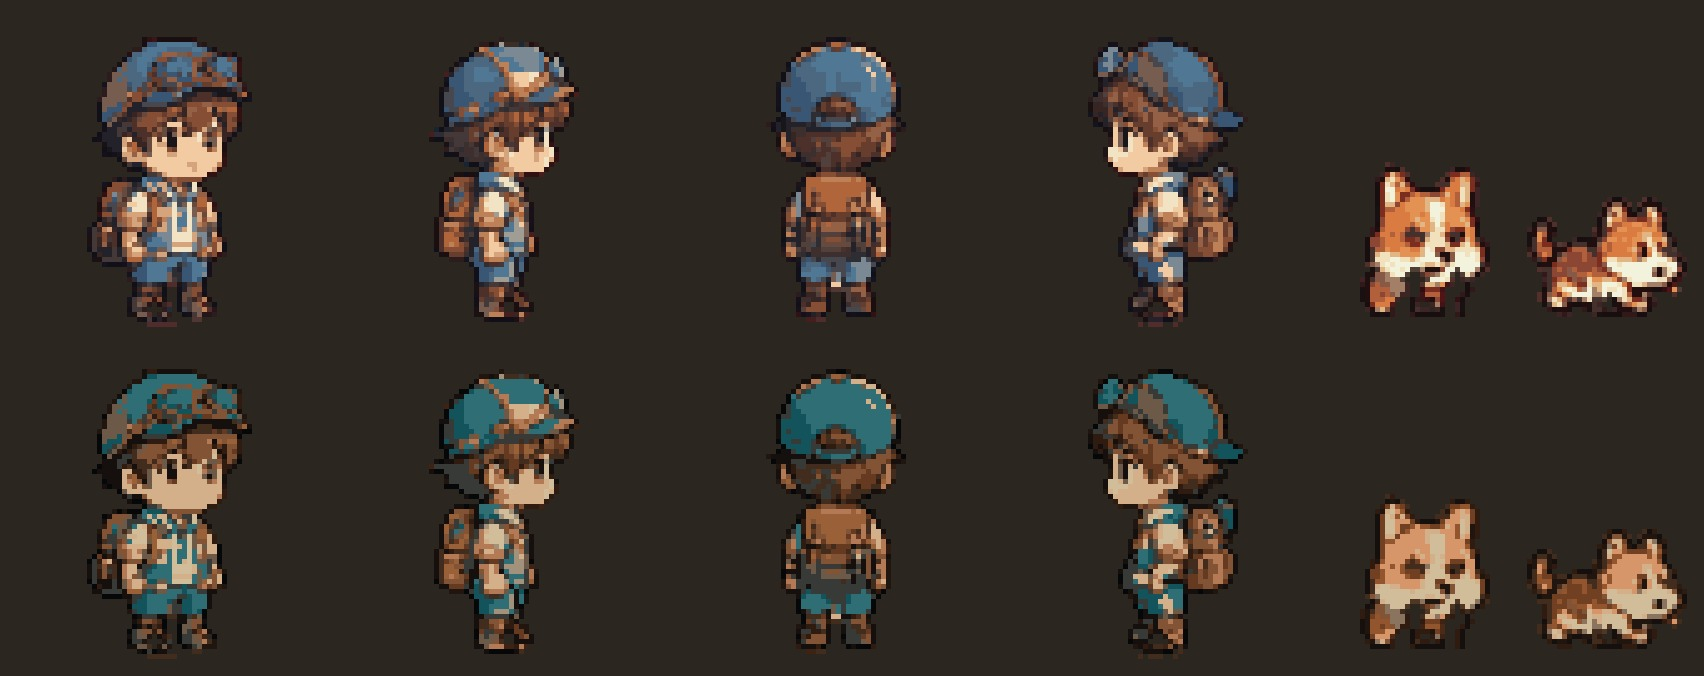
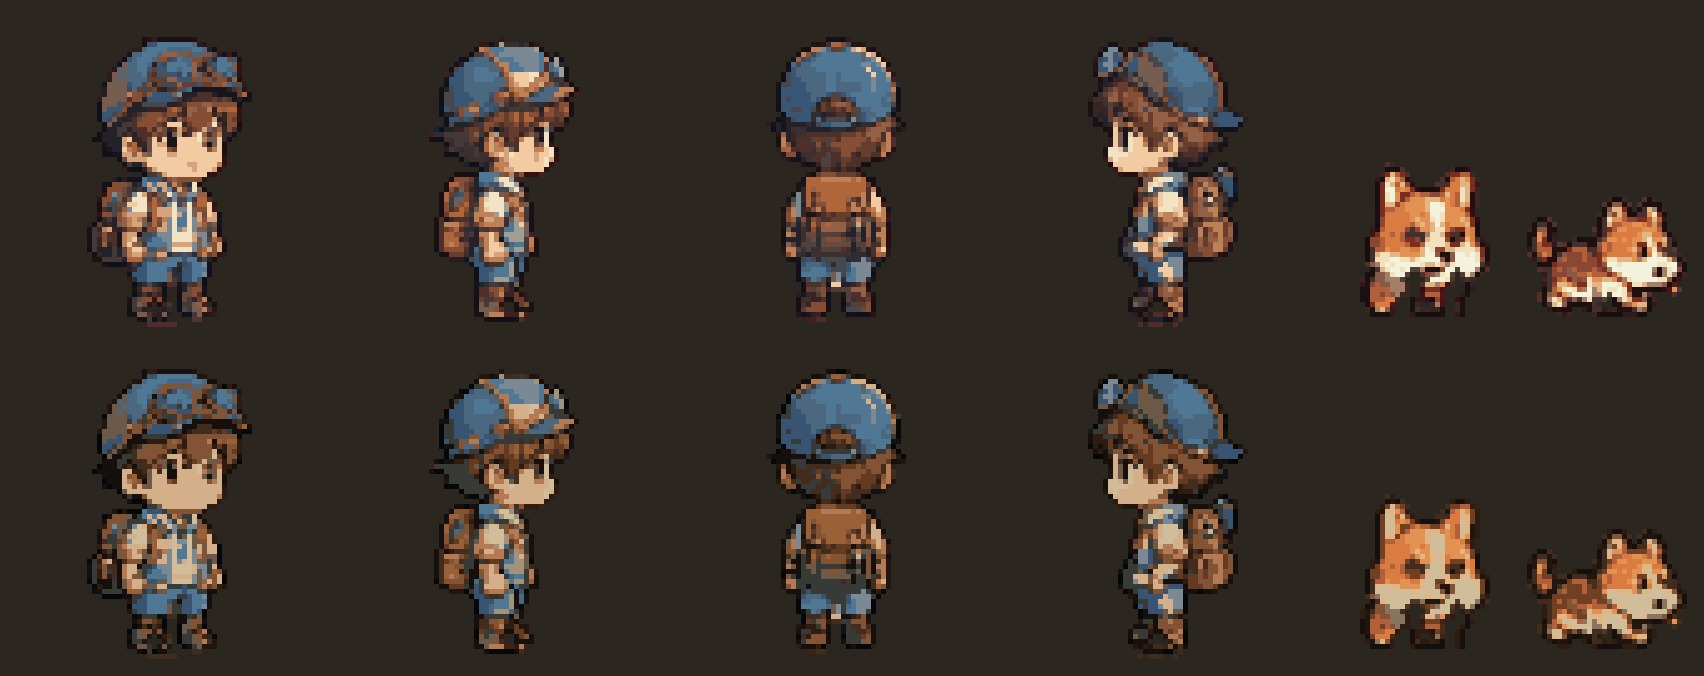
Map Rion and dog onto the master palette with added blue and orange ramps
Per decisions: keep the blue cap/denim and the dog's orange by adding a
4-step BLUE ramp (Rion only) and ORANGE ramp (dog only), both sampled
from lastlight_01, into 8 of the 11 unspecified slots; #000000 allowed.
Every sprite pixel is now a palette colour (27 used).

Claude-Session: https://claude.ai/code/session_01GQscemcyhAULQ41Vq3Zx3F

diff --git a/reborner/tools/web/reborner.html b/reborner/tools/web/reborner.html
@@ -160,7 +160,7 @@ html, body { height: 100%; background-color: #0e0d0b; }
 </script>
 		<script src="index.js"></script>
 		<script>
-const GODOT_CONFIG = {"args":[],"canvasResizePolicy":2,"emscriptenPoolSize":8,"ensureCrossOriginIsolationHeaders":true,"executable":"index","experimentalVK":false,"fileSizes":{"index.pck":271312,"index.wasm":39513091},"focusCanvas":true,"gdextensionLibs":[],"godotPoolSize":4};
+const GODOT_CONFIG = {"args":[],"canvasResizePolicy":2,"emscriptenPoolSize":8,"ensureCrossOriginIsolationHeaders":true,"executable":"index","experimentalVK":false,"fileSizes":{"index.pck":268800,"index.wasm":39513091},"focusCanvas":true,"gdextensionLibs":[],"godotPoolSize":4};
 const GODOT_THREADS_ENABLED = false;
 const engine = new Engine(GODOT_CONFIG);
 

diff --git a/reborner/CLAUDE.md b/reborner/CLAUDE.md
@@ -65,7 +65,8 @@ Sim ปิดตัวเองเมื่อรัน headless · บรรท
 
 - ✅ 3 ต.ค. 2026: ตัวเอกเป็นร่าง Last Light (หมวกน้ำเงิน) · จอสู้สลับเป็นศัตรูซ้าย/ปาร์ตี้ขวา (MASTER §5)
   หมาคู่หูเดินตามหลังหนึ่งช่องบนแผนที่ (`dog_lastlight_draft` 34x34 ขนาดเดิมจากชีต ไม่ขยาย) · ร่างทั้งสองลดสี+เส้นขอบ hue-shift แล้ว
-  ยังไม่ทำ: พาเลตต์ 41 สี (ไม่มี `_palette.png`) · ท่าเดิน/โจมตีจริง (รอ PixelLab ตามกติกา) · หมาไม่เข้าศึก
+  Rion+หมา ใช้พาเลตต์ master แล้ว (`docs/art-bible/master_palette.hex` 37 สี: เพิ่ม BLUE=Rion · ORANGE=หมา · #000 ใช้ได้ — ตัดสิน 3 ต.ค.)
+  ยังไม่ทำ: ท่าเดิน/โจมตีจริง (รอ PixelLab ตามกติกา) · หมาไม่เข้าศึก · มอนภูมิภาค 1 ยังไม่ได้แปลงเข้าพาเลตต์
 
 ## งานถัดไปตามลำดับ
 1. ✅ รัน Sim headless → เทียบตารางเป้า (`docs/SIM_REPORT_2026-09-25.md`) · ✅ เพิ่มบอส B1 เข้า Sim แล้ว · ✅ ยอมรับเป้ามีดทำครัวใหม่ (GDD 11.29)
